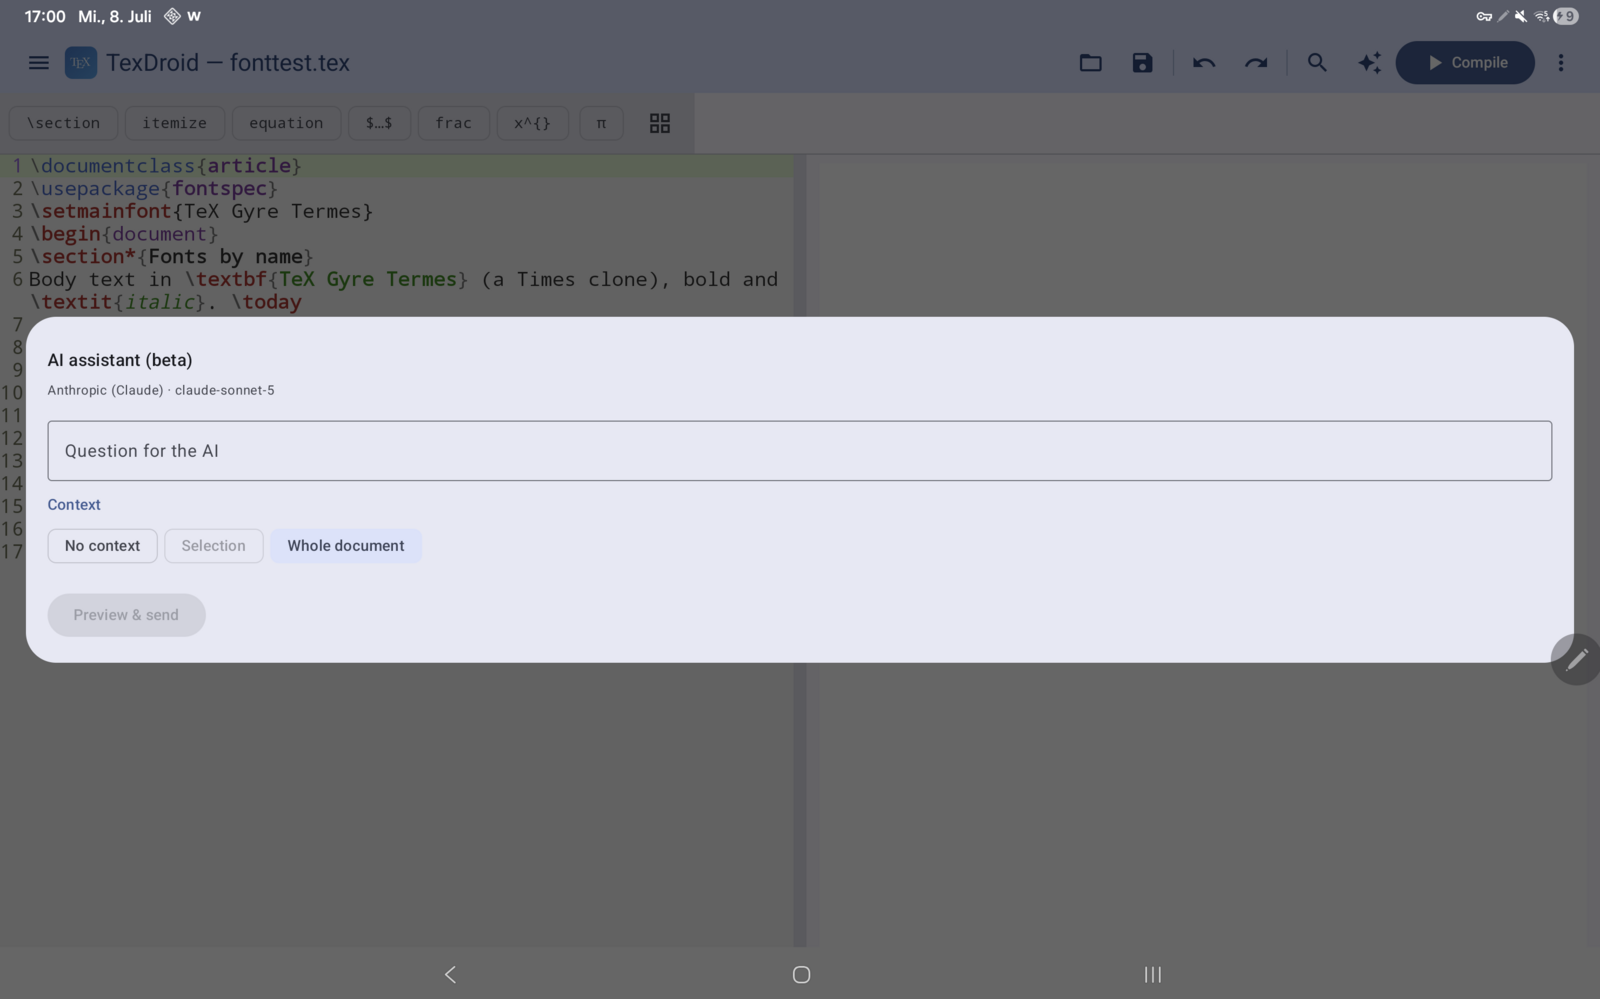
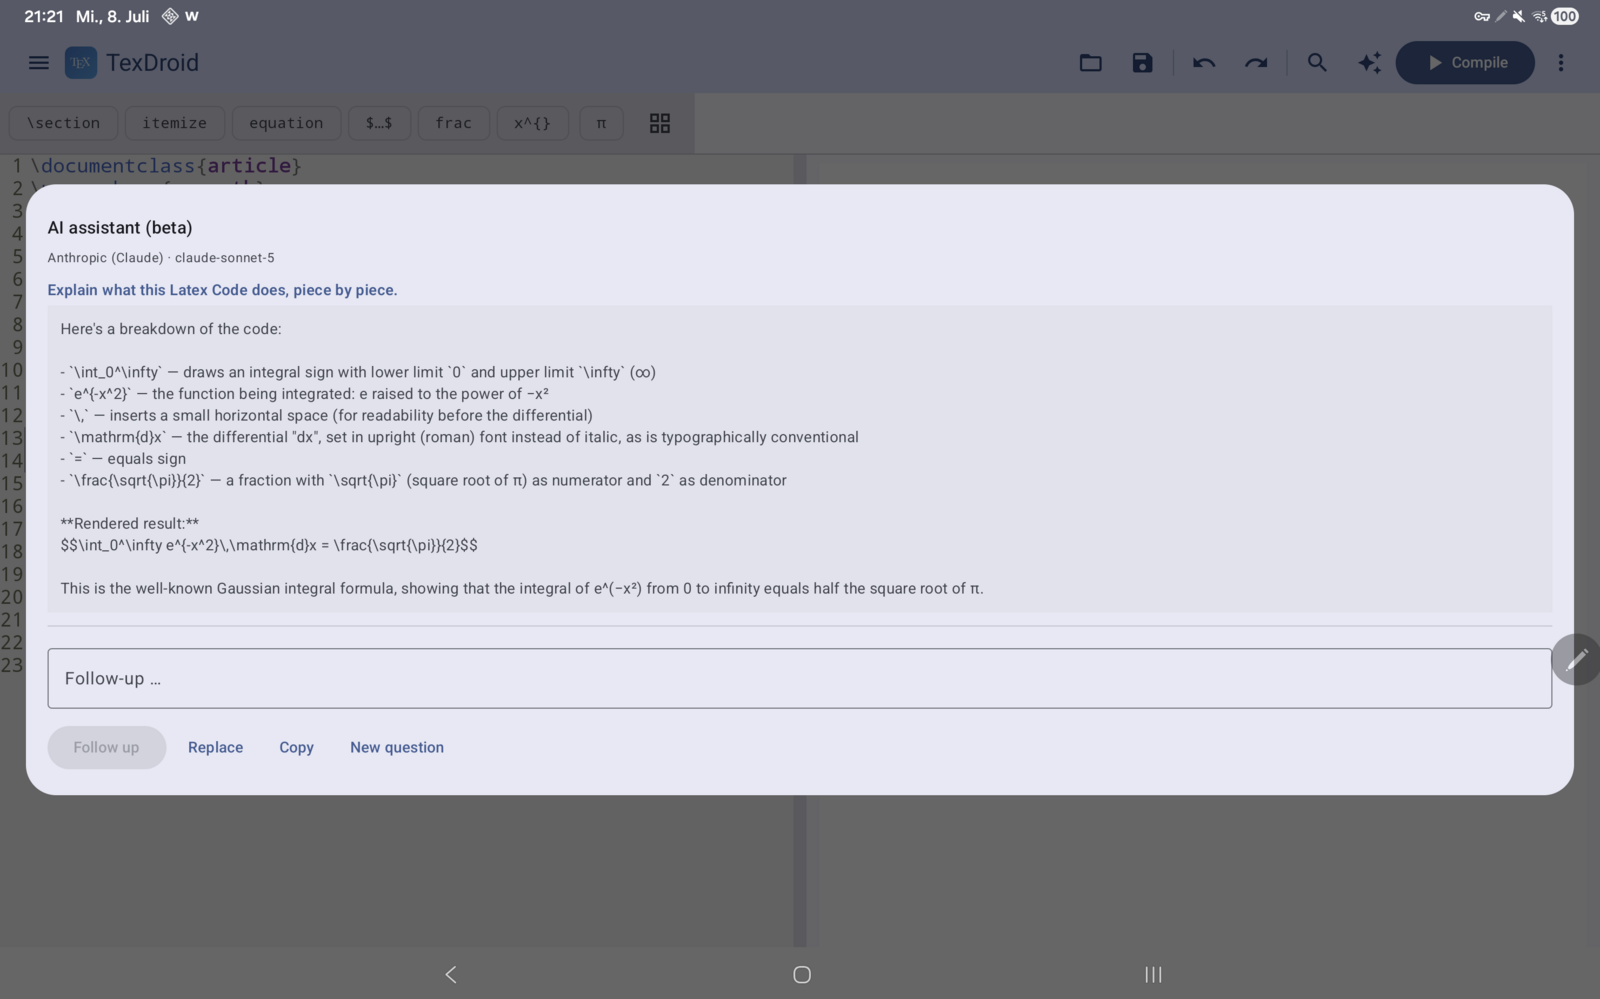
Docs: KI-Screenshot zeigt Kern-Use-Case – markierten Quellcode erklären
AI-Screenshot (README + Fastlane en-US) ausgetauscht: der KI-Assistent erklärt eine
markierte LaTeX-Formel (Gauß-Integral) Stück für Stück. Bildunterschrift
geschärft: Quellcode-Klärung, kein allgemeiner Chatbot.

diff --git a/README.md b/README.md
@@ -32,7 +32,7 @@ _Multi-file projects: the project folder as a sidebar (file tree), switch files 
 
 ![TexDroid: optional AI assistant with preview confirmation](./docs/screenshots/03-ki-assistent.png)
 
-_Optional AI assistant (BYOK): ask a question, choose the context (selection or whole document), see the model — nothing is sent until you confirm in the preview dialog._
+_Optional AI assistant (BYOK): select a piece of LaTeX you don't understand and have it explained line by line (here the Gaussian integral). It clarifies source code — it is not a general chatbot. Nothing is sent until you confirm in the preview dialog._
 
 ## Features
 